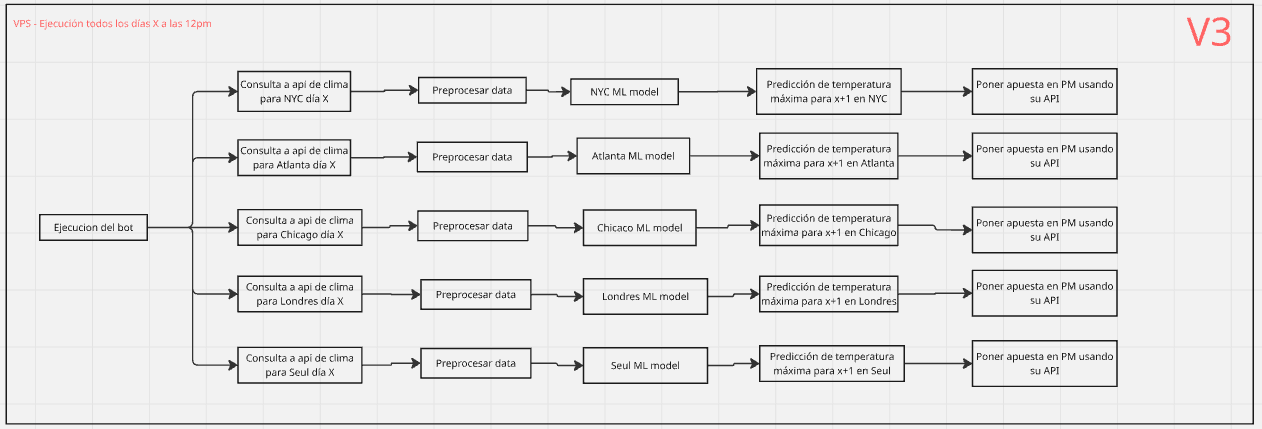
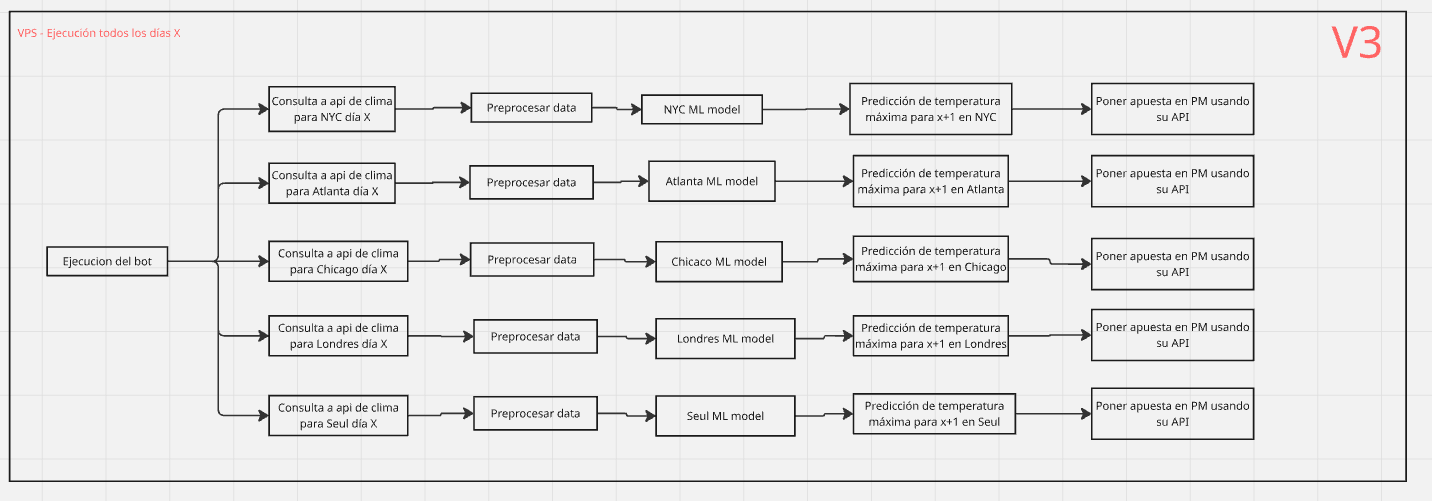
Modificaciones de readme e imagenes

diff --git a/README.md b/README.md
@@ -51,7 +51,7 @@ Empezare con una cantidad reducida de features para ampliar posiblemente en el f
 
 Version inicial :
 
-```
+```python
 import requests
 import pandas as pd
 import numpy as np
